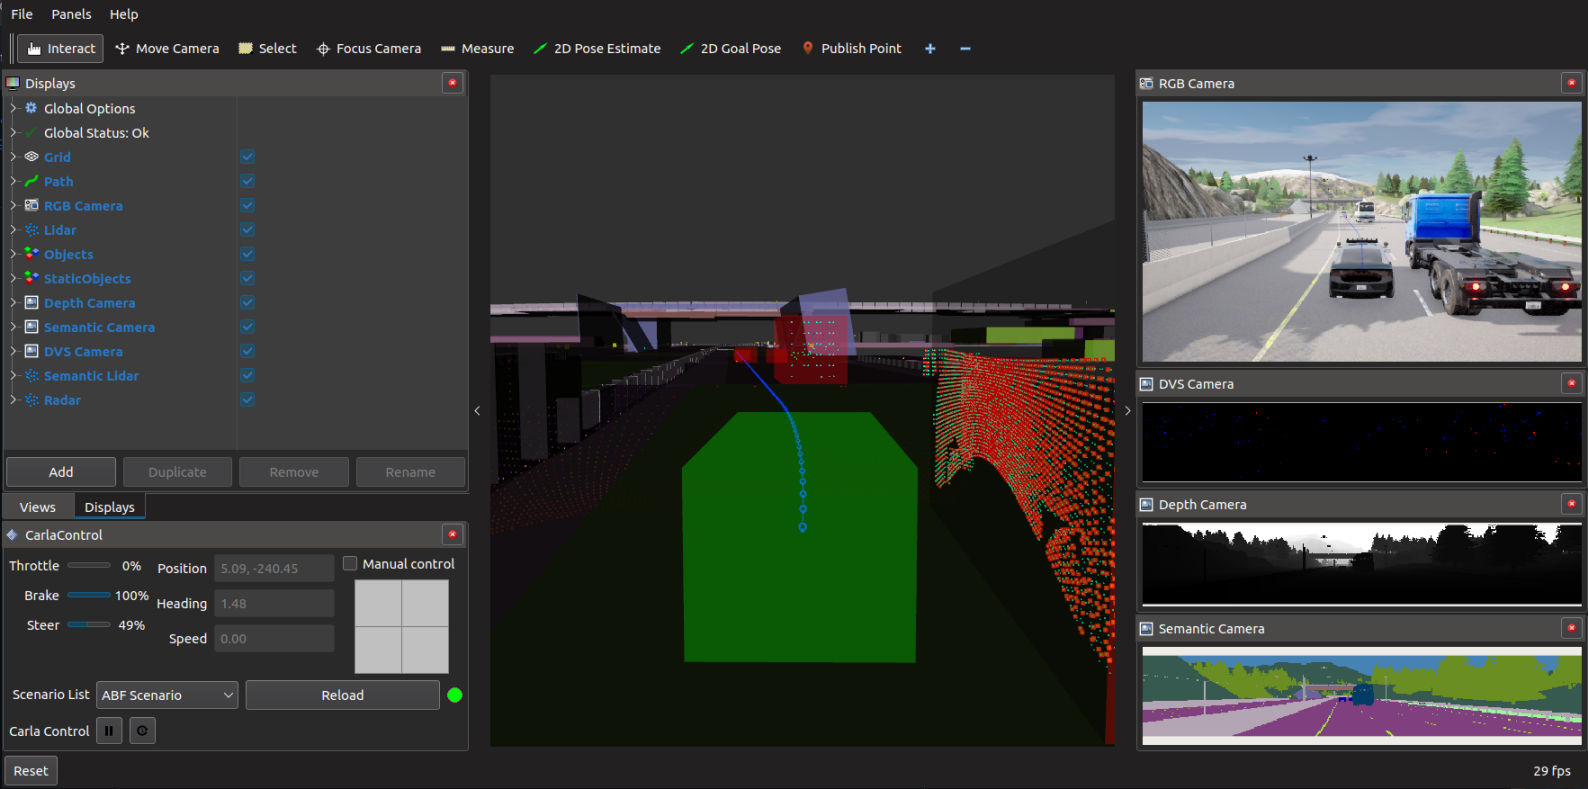
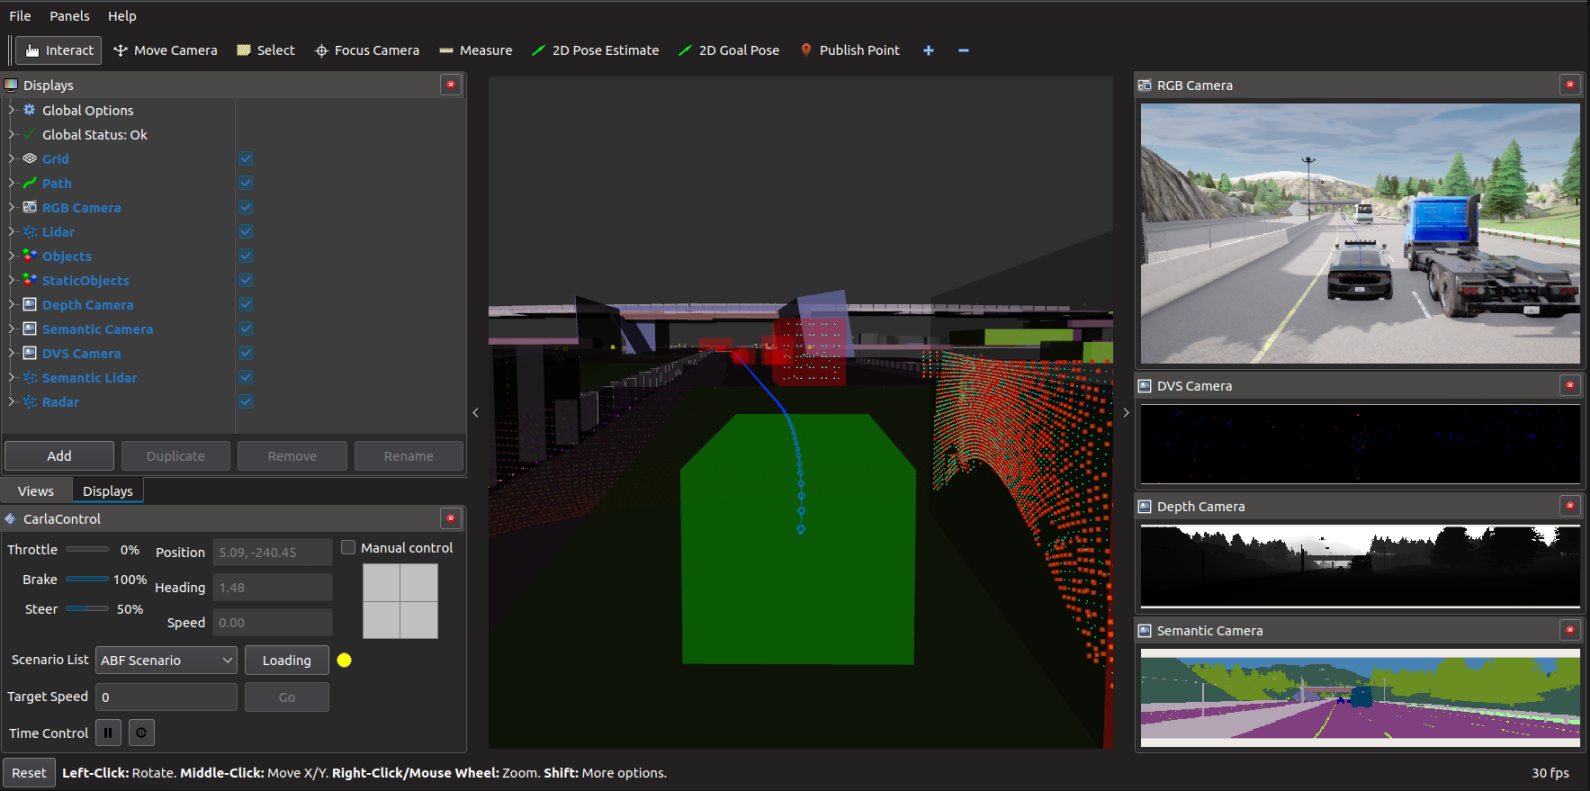
Added support to publish Target Speed and start the scenario from RVIZ.

diff --git a/rviz_carla_plugin/src/carla_control_panel_ROS2.cpp b/rviz_carla_plugin/src/carla_control_panel_ROS2.cpp
@@ -41,11 +41,11 @@ CarlaControlPanel::CarlaControlPanel(QWidget *parent)
   : rviz_common::Panel(parent)
 {
   QVBoxLayout *layout = new QVBoxLayout;
-  QHBoxLayout *vehicleLayout = new QHBoxLayout;
+  QHBoxLayout *vehicleStatusLayout = new QHBoxLayout;
+  QHBoxLayout *scenarioRunnerLayout = new QHBoxLayout;
 
-  // Vehicle Control Status
+  // Throttle, Brake, and Steer Info
   QFormLayout *egoCtrlStatusLayout = new QFormLayout;
-
   mThrottleBar = new QProgressBar();
   mThrottleBar->setRange(0, 100);
   egoCtrlStatusLayout->addRow("Throttle", mThrottleBar);
@@ -55,84 +55,81 @@ CarlaControlPanel::CarlaControlPanel(QWidget *parent)
   mSteerBar = new QProgressBar();
   mSteerBar->setRange(-100, 100);
   egoCtrlStatusLayout->addRow("Steer", mSteerBar);
-  vehicleLayout->addLayout(egoCtrlStatusLayout);
+  vehicleStatusLayout->addLayout(egoCtrlStatusLayout);
 
-  // Vehicle Status
-  QFormLayout *egoStatusLayout = new QFormLayout;
-  //Position
-  mPosLabel = new QLineEdit();
+  // Position, Heading, and Speed Info
+  QFormLayout *egoInfoStatusLayout = new QFormLayout;
+  mPosLabel = new QLineEdit();   //Position
   mPosLabel->setDisabled(true);
   //mPosLabel->setFixedWidth(160);
-  egoStatusLayout->addRow("Position", mPosLabel);
-
-  //Heading
-  mHeadingLabel = new QLineEdit();
+  egoInfoStatusLayout->addRow("Position", mPosLabel);
+  mHeadingLabel = new QLineEdit(); //Heading
   mHeadingLabel->setDisabled(true);
-  egoStatusLayout->addRow("Heading", mHeadingLabel);
-
-  //Speed
-  mSpeedLabel = new QLineEdit();
+  egoInfoStatusLayout->addRow("Heading", mHeadingLabel);
+  mSpeedLabel = new QLineEdit(); //Speed
   mSpeedLabel->setDisabled(true);
-  egoStatusLayout->addRow("Speed", mSpeedLabel);
+  egoInfoStatusLayout->addRow("Speed", mSpeedLabel);
+  vehicleStatusLayout->addLayout(egoInfoStatusLayout);
 
-  vehicleLayout->addLayout(egoStatusLayout);
-
-  /*
-  QFormLayout *egoPositionLayout = new QFormLayout;
-  mPosLabel = new QLineEdit();
-  mPosLabel->setDisabled(true);
-  mPosLabel->setFixedWidth(160);
-  egoPositionLayout->addRow("Position", mPosLabel);
-  layout->addLayout(egoPositionLayout);
-  */
- 
-  QVBoxLayout *egoCtrlLayout = new QVBoxLayout;
+  // Manual Control Widget
+  QVBoxLayout *egoManualCtrlLayout = new QVBoxLayout;
   mOverrideVehicleControl = new QCheckBox("Manual control");
   mOverrideVehicleControl->setDisabled(true);
-  egoCtrlLayout->addWidget(mOverrideVehicleControl);
+  egoManualCtrlLayout->addWidget(mOverrideVehicleControl);
   mDriveWidget = new DriveWidget;
   mDriveWidget->setDisabled(true);
-  egoCtrlLayout->addWidget(mDriveWidget);
+  egoManualCtrlLayout->addWidget(mDriveWidget);
   connect(mOverrideVehicleControl, SIGNAL(stateChanged(int)), this, SLOT(overrideVehicleControl(int)));
+  vehicleStatusLayout->addLayout(egoManualCtrlLayout); 
 
-  vehicleLayout->addLayout(egoCtrlLayout);
+  layout->addLayout(vehicleStatusLayout);
 
-  layout->addLayout(vehicleLayout);
+  // Scenario Control Status
+  QFormLayout *scenarioCtrlLayout = new QFormLayout;
 
-  QFormLayout *carlaLayout = new QFormLayout;
-
-  // Scenario Runner Buttons
-  QHBoxLayout *carlaRow1Layout = new QHBoxLayout;
-
+  QHBoxLayout *scenarioListLine = new QHBoxLayout;
   mScenarioSelection = new QComboBox();
   mScenarioSelection->setFixedWidth(160);
-  carlaRow1Layout->addWidget(mScenarioSelection, 10);
-
+  scenarioListLine->addWidget(mScenarioSelection);
   mTriggerScenarioButton = new QPushButton("Load");
-  carlaRow1Layout->addWidget(mTriggerScenarioButton);
-
+  mTriggerScenarioButton->setFixedWidth(96);
+  scenarioListLine->addWidget(mTriggerScenarioButton);
   mIndicatorWidget = new IndicatorWidget();
-  carlaRow1Layout->addWidget(mIndicatorWidget);
+  scenarioListLine->addWidget(mIndicatorWidget);
   connect(mTriggerScenarioButton, SIGNAL(released()), this, SLOT(executeScenario()));
+  scenarioCtrlLayout->addRow("Scenario List", scenarioListLine);
 
-  carlaLayout->addRow("Scenario List", carlaRow1Layout);
+  QHBoxLayout *targetSpeedLine = new QHBoxLayout;
+  mTargetSpeedVal = new QLineEdit();
+  mTargetSpeedVal->setEnabled(true);
+  mTargetSpeedVal->setFixedWidth(160);
 
-  QHBoxLayout *synchronous_layout = new QHBoxLayout;
+  targetSpeedLine->addWidget(mTargetSpeedVal);
+  mSetTargetSpeedButton = new QPushButton("Go");
+  mSetTargetSpeedButton->setFixedWidth(96);
+  mSetTargetSpeedButton->setDisabled(true);
+  targetSpeedLine->addWidget(mSetTargetSpeedButton);
+  connect(mSetTargetSpeedButton, SIGNAL(released()), this, SLOT(setTargetSpeed()));
+  connect(mTargetSpeedVal, SIGNAL(returnPressed()), this, SLOT(setTargetSpeed()));
+  scenarioCtrlLayout->addRow("Target Speed", targetSpeedLine);
+
+  QHBoxLayout *timeCtrlLine = new QHBoxLayout;
   QPixmap pixmap(":/icons/play.png");
   QIcon iconPlay(pixmap);
   mPlayPauseButton = new QPushButton(iconPlay, "");
-  synchronous_layout->addWidget(mPlayPauseButton);
+  timeCtrlLine->addWidget(mPlayPauseButton);
   connect(mPlayPauseButton, SIGNAL(released()), this, SLOT(carlaTogglePlayPause()));
 
   QPixmap pixmapStepOnce(":/icons/step_once.png");
   QIcon iconStepOnce(pixmapStepOnce);
   mStepOnceButton = new QPushButton(iconStepOnce, "");
   connect(mStepOnceButton, SIGNAL(released()), this, SLOT(carlaStepOnce()));
+  timeCtrlLine->addWidget(mStepOnceButton);
+  scenarioCtrlLayout->addRow("Time Control", timeCtrlLine);
 
-  synchronous_layout->addWidget(mStepOnceButton);
-  carlaLayout->addRow("Carla Control", synchronous_layout);
+  scenarioRunnerLayout->addLayout(scenarioCtrlLayout);
 
-  layout->addLayout(carlaLayout);
+  layout->addLayout(scenarioRunnerLayout);
 
   setLayout(layout);
 
@@ -215,6 +212,9 @@ void CarlaControlPanel::onInitialize()
 
   mTwistPublisher = _node->create_publisher<geometry_msgs::msg::Twist>("/carla/hero/twist", 1);
 
+  mTargetSpeedPublisher = _node->create_publisher<std_msgs::msg::Float64>("/carla/hero/target_speed", qos_latch_1);
+
+
   mScenarioSubscriber
     = _node->create_subscription<carla_ros_scenario_runner_types::msg::CarlaScenarioList>("/carla/available_scenarios", 1, std::bind(&CarlaControlPanel::carlaScenariosChanged, this, _1));
 }
@@ -275,20 +275,27 @@ void CarlaControlPanel::scenarioRunnerStatusChanged(
   {
     mIndicatorWidget->setState(IndicatorWidget::State::Stopped);
     mTriggerScenarioButton->setText("Load");
+    mSetTargetSpeedButton->setDisabled(true);
+
   }
   else if (msg->status == carla_ros_scenario_runner_types::msg::CarlaScenarioRunnerStatus::STARTING)
   {
     mIndicatorWidget->setState(IndicatorWidget::State::Starting);
-    mTriggerScenarioButton->setText("Starting");
+    mTriggerScenarioButton->setText("Loading");
+    mSetTargetSpeedButton->setDisabled(true);
   }
   else if (msg->status == carla_ros_scenario_runner_types::msg::CarlaScenarioRunnerStatus::RUNNING)
   {
     mIndicatorWidget->setState(IndicatorWidget::State::Running);
     mTriggerScenarioButton->setText("Reload");
+    mSetTargetSpeedButton->setEnabled(true);
+
   }
   else if (msg->status == carla_ros_scenario_runner_types::msg::CarlaScenarioRunnerStatus::SHUTTINGDOWN)
   {
     mIndicatorWidget->setState(IndicatorWidget::State::ShuttingDown);
+    mTriggerScenarioButton->setText("Clearing");
+    mSetTargetSpeedButton->setDisabled(true);
   }
   else
   {
@@ -453,6 +460,25 @@ void CarlaControlPanel::sendVel()
     msg.angular.z = mAngularVelocity;
     mTwistPublisher->publish(msg);
   }
+}
+
+void CarlaControlPanel::setTargetSpeed()
+{
+  bool convertible;
+  QString text = mTargetSpeedVal->text();
+  float targetSpeed = text.toFloat(&convertible);  
+
+  if (convertible)
+  {
+    // Publish the target speed to the topic
+    std_msgs::msg::Float64 targetSpeedMsg;
+    targetSpeedMsg.data = targetSpeed;
+    mTargetSpeedPublisher->publish(targetSpeedMsg);
+  }
+    
+  
+  
+
 }
 
 } // end namespace rviz_carla_plugin

diff --git a/rviz_carla_plugin/src/carla_control_panel_ROS2.h b/rviz_carla_plugin/src/carla_control_panel_ROS2.h
@@ -16,6 +16,7 @@
 #include "rclcpp/rclcpp.hpp"
 #include <rviz_common/panel.hpp>
 #include <std_msgs/msg/bool.hpp>
+#include <std_msgs/msg/float64.hpp>
 #include <carla_ros_scenario_runner_types/srv/execute_scenario.hpp>
 #include <geometry_msgs/msg/pose.hpp>
 #include <geometry_msgs/msg/twist.hpp>
@@ -27,6 +28,8 @@ class QPushButton;
 class QProgressBar;
 class QCheckBox;
 class QComboBox;
+class QPushButton;
+class QDebug;
 
 namespace rviz {
 class ViewController;
@@ -58,6 +61,8 @@ protected Q_SLOTS:
   void updateCameraPos();
   void currentViewControllerChanged();
 
+  void setTargetSpeed();
+
 protected:
   virtual void cameraPreRenderScene(Ogre::Camera *cam) override;
 
@@ -78,12 +83,14 @@ protected:
   QPushButton *mTriggerScenarioButton;
   QPushButton *mPlayPauseButton;
   QPushButton *mStepOnceButton;
+  QPushButton *mSetTargetSpeedButton;
   QProgressBar *mThrottleBar;
   QProgressBar *mBrakeBar;
   QProgressBar *mSteerBar;
   QLineEdit *mPosLabel;
   QLineEdit *mSpeedLabel;
   QLineEdit *mHeadingLabel;
+  QLineEdit *mTargetSpeedVal;
   QCheckBox *mOverrideVehicleControl;
   QComboBox *mScenarioSelection;
   IndicatorWidget *mIndicatorWidget;
@@ -97,6 +104,7 @@ protected:
   rclcpp::Subscription<carla_ros_scenario_runner_types::msg::CarlaScenarioList>::SharedPtr mScenarioSubscriber;
   rclcpp::Subscription<carla_ros_scenario_runner_types::msg::CarlaScenarioRunnerStatus>::SharedPtr mScenarioRunnerStatusSubscriber;
   rclcpp::Publisher<geometry_msgs::msg::Pose>::SharedPtr mCameraPosePublisher;
+  rclcpp::Publisher<std_msgs::msg::Float64>::SharedPtr mTargetSpeedPublisher;
 
   carla_ros_scenario_runner_types::msg::CarlaScenarioList::SharedPtr mCarlaScenarios;
 

diff --git a/rviz_carla_plugin/src/indicator_widget.cpp b/rviz_carla_plugin/src/indicator_widget.cpp
@@ -50,4 +50,9 @@ void IndicatorWidget::setState(IndicatorWidget::State state)
   repaint();
 }
 
+IndicatorWidget::State IndicatorWidget::getState() const
+{
+  return mCurrentState;
+}
+
 } // end namespace rviz_carla_plugin

diff --git a/rviz_carla_plugin/src/indicator_widget.h b/rviz_carla_plugin/src/indicator_widget.h
@@ -29,6 +29,8 @@ public:
 
   void setState(IndicatorWidget::State state);
 
+  State getState() const;
+
 private:
   State mCurrentState{State::Stopped};
 };

diff --git a/docs/carla_abf_demo.md b/docs/carla_abf_demo.md
@@ -29,11 +29,13 @@ You will require 3 Linux Terminals to Run this demo
   ```sh
     ros2 launch carla_abf_demo carla_abf_demo.launch.py
   ```
-3. Terminal 03: Start the Demo (by setting Ego Vehicle's Target Speed)
-  ```sh
-    ros2 topic pub --once /carla/hero/target_speed std_msgs/msg/Float64 "{data: 21.0}" 
-  ```
-4. (optional) Terminal 04: Launch Spectator View
+  The demo can triggered by entering the target speed value and either hitting "Enter" or by clicking the "Go" button.
+
+3. (optional) Terminal 03: Launch Spectator View
   ```sh
     ros2 launch carla_manual_control carla_manual_control.launch.py
+  ```
+It is also possible to start the Demo by directly setting the target Speed from the Terminal
+  ```sh
+    ros2 topic pub --once /carla/hero/target_speed std_msgs/msg/Float64 "{data: 21.0}" 
   ```
